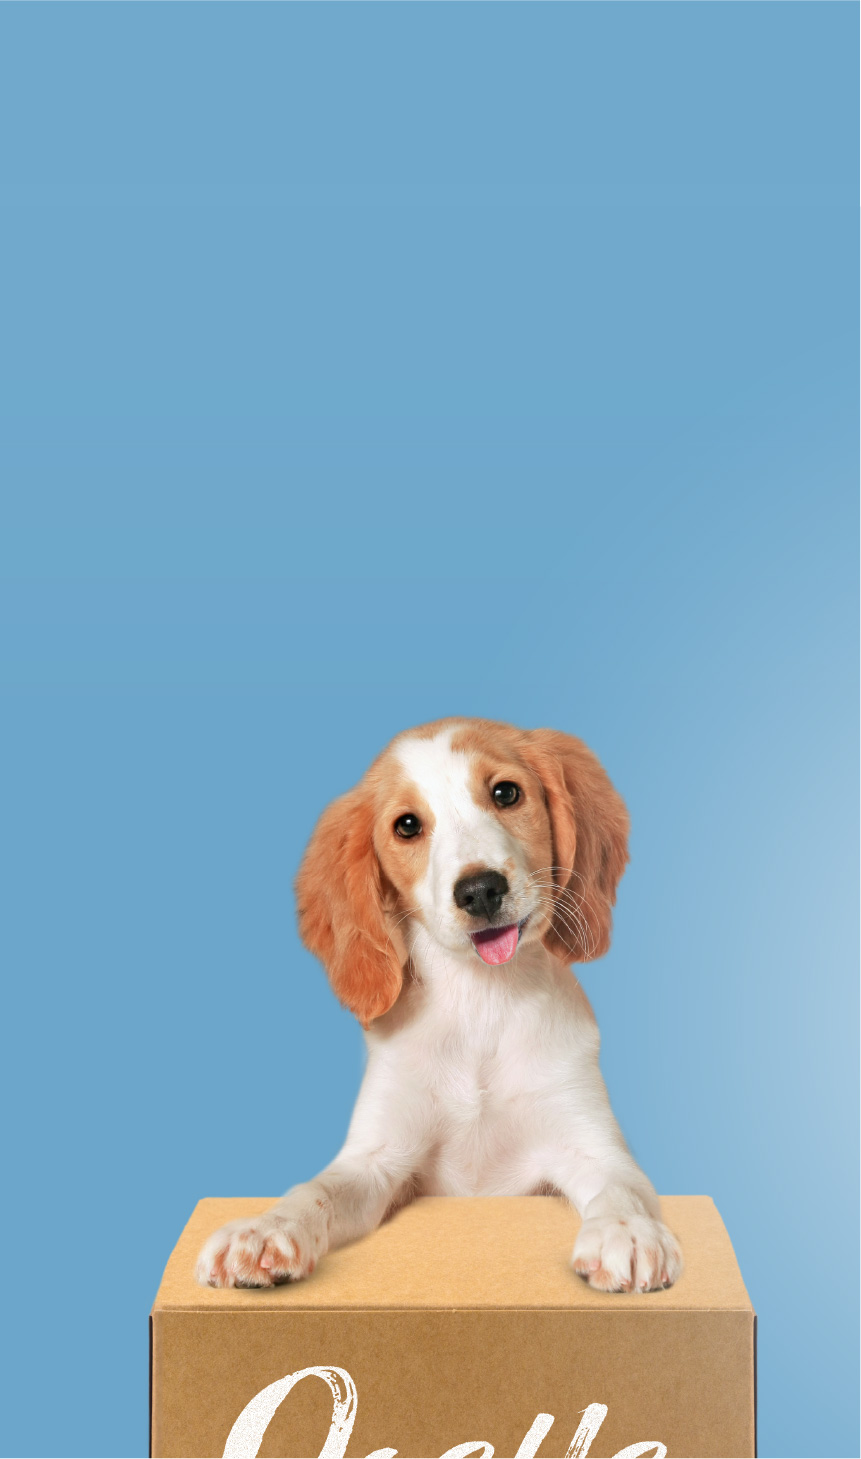
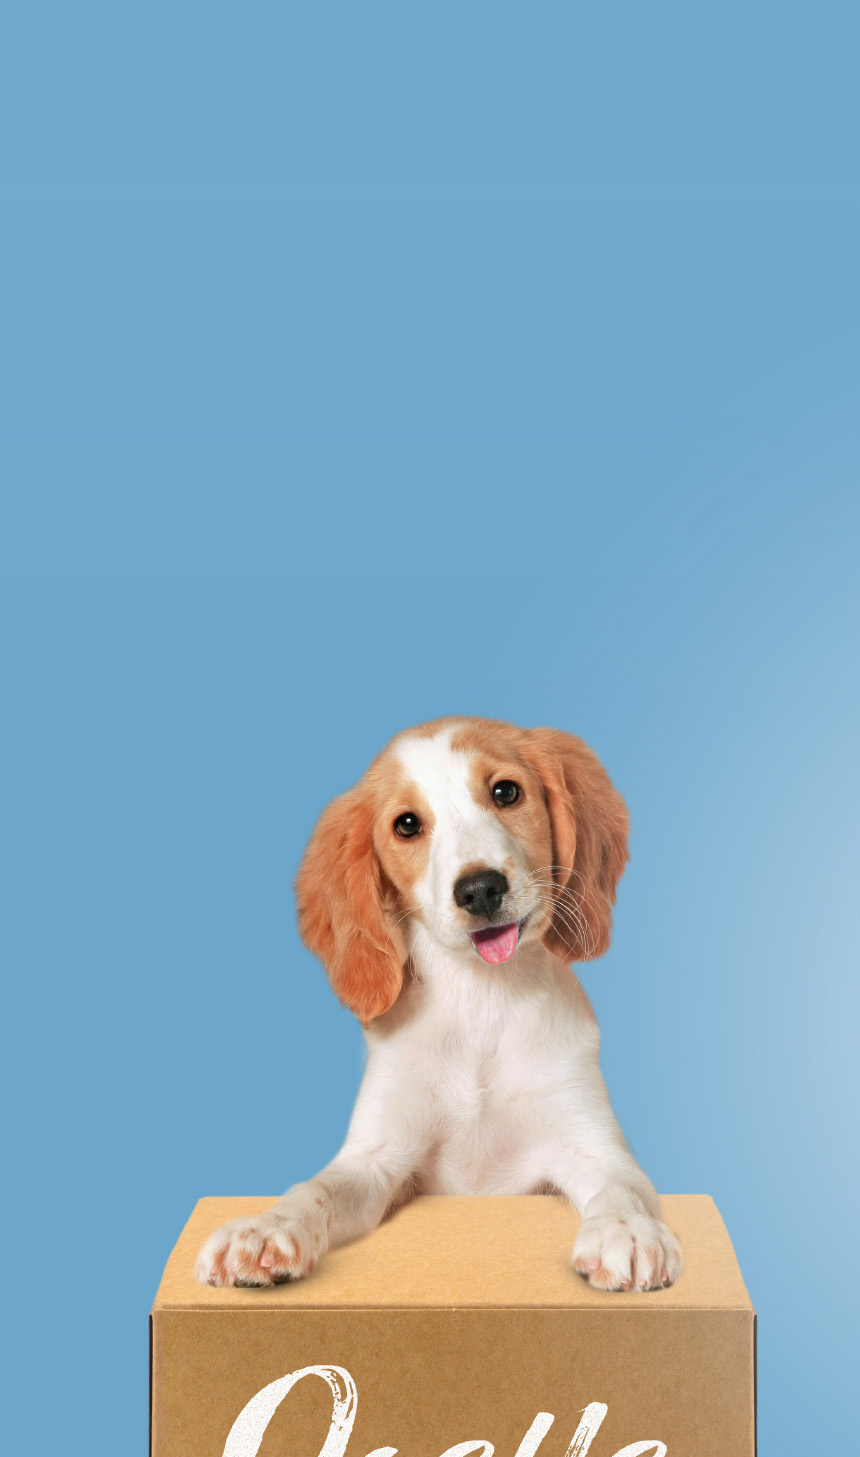
Fix Ocelle_Change Log_How It Works-Individual Packs _v0.23

diff --git a/src/components/forms/GuestCheckout.tsx b/src/components/forms/GuestCheckout.tsx
@@ -9,6 +9,7 @@ import React from 'react';
 import { useForm } from 'react-hook-form';
 
 import CartRows from '../CartRows';
+import UnderlineButton from '../buttons/UnderlineButton';
 import TextField from '../controls/TextField';
 import DatePickerForm from './DatePicker';
 import PartialBillingAddressForm, { IPartialBillingAddressForm } from './partial/BillingAddress';
@@ -84,6 +85,7 @@ interface IGuestCheckoutForm {
   deliveryDate: Date;
   deliveryAddress: IPartialShippingAddressForm;
   billingAddress: IPartialBillingAddressForm;
+  tnc: boolean;
 }
 
 type IGuestCheckoutFormAction = Omit<
@@ -350,7 +352,7 @@ export default function GuestCheckoutForm({
                 <div className="w-1/2 p-2 max-lg:w-full">
                   <TextField
                     name="whatsapp.value"
-                    label="WhatsApp"
+                    label={t('whatsapp-optional')}
                     control={control}
                     rules={{
                       pattern: {
@@ -448,6 +450,7 @@ export default function GuestCheckoutForm({
                 <div ref={datePickerRef} className="mt-4 w-fit">
                   <DatePickerForm
                     initialDate={watch('deliveryDate')}
+                    minDate={minDeliveryDate}
                     // minDate={minDeliveryDate}
                     shouldDisableDate={(day) =>
                       !isOperationDate(subDays(day, 1), calendarEvents) ||
@@ -510,6 +513,21 @@ export default function GuestCheckoutForm({
                 <div className="-mx-1 flex flex-wrap justify-between font-bold">
                   <div className="body-2 px-1">{t('{}-colon', { value: t('total') })}</div>
                   <div className="body-2 px-1">${totalPrice?.amount}</div>
+                </div>
+                <div className="mt-4">
+                  <RoundedCheckbox
+                    name="tnc"
+                    control={control}
+                    rules={{
+                      required: true,
+                    }}
+                    label={t.rich('i-have-read-and-understood-the-terms-conditions', {
+                      button: (chunks) => (
+                        <UnderlineButton type="button" theme="primary" label={chunks} />
+                      ),
+                    })}
+                    disabled={isSubmitInProgress}
+                  />
                 </div>
                 <div className="mt-5 text-center">
                   <Button

diff --git a/src/app/[locale]/(main)/how-it-works/individual-pack/page.tsx b/src/app/[locale]/(main)/how-it-works/individual-pack/page.tsx
@@ -45,14 +45,14 @@ export default async function HowItWorksIndividual() {
   return (
     <>
       <main>
-        <div className="relative flex items-center bg-white bg-[url('./individual-pack-bg.jpg')] bg-[length:auto_100%] bg-[calc(50%_+_40px)_center] bg-no-repeat max-lg:bg-[url('./individual-pack-bg-mb.jpg')] max-lg:bg-[length:100%_auto] max-lg:bg-bottom">
+        <div className="relative flex items-center bg-[#70aaca] bg-[url('./individual-pack-bg.jpg')] bg-[length:auto_100%] bg-[calc(50%_+_40px)_center] bg-no-repeat max-lg:bg-[url('./individual-pack-bg-mb.jpg')] max-lg:bg-[length:100%_auto] max-lg:bg-bottom">
           <div className="w-full pt-[clamp(450px,31.5%,700px)] max-lg:hidden"></div>
           <div className="w-full py-[4vw] text-white max-lg:w-full max-lg:py-10 max-lg:pb-[95%] lg:absolute lg:pr-0">
             <Container className="max-lg:text-center">
               <h1 className="heading-headline heading-weight-1">{ip.rich('block-1-title')}</h1>
               <div className="mt-4"></div>
               <div className="max-w-[45%] max-lg:max-w-none">
-                <p className="body-1">{ip('block-1-content')}</p>
+                <p className="body-1">{ip.rich('block-1-content')}</p>
               </div>
             </Container>
           </div>
@@ -181,7 +181,7 @@ export default async function HowItWorksIndividual() {
           picture="/recipes/individual/duck.jpg"
           dialogPicture="/recipes/dispersion/duck.gif"
           className={{
-            root: 'bg-secondary bg-opacity-[8%]',
+            root: 'bg-[#FCBB00] bg-opacity-[8%]',
             title: 'text-secondary',
           }}
           reverse

diff --git a/src/components/buttons/Button.tsx b/src/components/buttons/Button.tsx
@@ -32,19 +32,25 @@ function ButtonIcon() {
   return <DogFoot className="ml-2 w-6 fill-current" />;
 }
 
-export default function Button({
-  fontSize,
-  theme,
-  children,
-  className,
-  onClick,
-  onTouchEnd,
-  reverse,
-  fullWidth,
-  disabled,
-  disableIcon,
-  ...props
-}: React.PropsWithChildren<ButtonProps | LinkbuttonProps>) {
+export default React.forwardRef<
+  HTMLAnchorElement | HTMLButtonElement,
+  React.PropsWithChildren<ButtonProps | LinkbuttonProps>
+>(function Button(
+  {
+    fontSize,
+    theme,
+    children,
+    className,
+    onClick,
+    onTouchEnd,
+    reverse,
+    fullWidth,
+    disabled,
+    disableIcon,
+    ...props
+  },
+  ref
+) {
   const buttonProps = props as ButtonProps;
   // check if icon is needed.
   let iconNeed = true;
@@ -116,6 +122,7 @@ export default function Button({
   if (linkProps.href) {
     return (
       <Link
+        ref={ref as React.ForwardedRef<HTMLAnchorElement>}
         href={linkProps.href}
         className={classes}
         target={linkProps.target}
@@ -134,6 +141,7 @@ export default function Button({
 
   return (
     <button
+      ref={ref as React.ForwardedRef<HTMLButtonElement>}
       className={classes}
       type={buttonProps.type}
       onClick={onClick as React.MouseEventHandler<HTMLButtonElement>}
@@ -146,4 +154,4 @@ export default function Button({
       {!disableIcon && <ButtonIcon />}
     </button>
   );
-}
+});

diff --git a/src/components/dialogs/RecipeMedium.tsx b/src/components/dialogs/RecipeMedium.tsx
@@ -43,8 +43,8 @@ export default function RecipeMediumDialog({
     <Dialog>
       <DialogTrigger asChild>{children}</DialogTrigger>
       <DialogContent className="p-3">
-        <div className="drop-shadow-style-1 relative flex max-w-[1016px] items-start rounded-3xl border-2 border-primary bg-white px-5 py-4 text-left shadow-black/20 max-md:flex-wrap max-md:pt-9">
-          <div className="w-[400px] min-w-[400px] max-lg:min-w-[320px] max-xs:w-full max-xs:min-w-full">
+        <div className="relative flex max-w-[1016px] items-start rounded-3xl border-2 border-primary bg-white px-5 py-4 text-left shadow-black/20 drop-shadow-style-1 max-md:flex-wrap max-md:pt-9">
+          <div className="mx-auto w-[400px] min-w-[400px] max-lg:min-w-[320px] max-xs:w-full max-xs:min-w-full">
             {picture}
           </div>
           <div className="ml-6 py-1 max-md:mx-3 max-md:mt-4">

diff --git a/src/app/[locale]/(main)/how-it-works/individual-pack/Product.tsx b/src/app/[locale]/(main)/how-it-works/individual-pack/Product.tsx
@@ -5,6 +5,7 @@ import edjsHTML from 'editorjs-html';
 import { useTranslations } from 'next-intl';
 import Image from 'next/image';
 import React from 'react';
+import { toast } from 'react-toastify';
 import xss from 'xss';
 
 import { addToCart, updateCartLine } from './actions';
@@ -77,6 +78,7 @@ export default function Product({
   const handleButtonClick = React.useCallback(async () => {
     const cart = await addToCart(pack, 1);
     setCart(cart);
+    toast('item added to the cart.');
   }, [pack, setCart]);
 
   const getPrice = (product: ProductFragment) => {
@@ -161,6 +163,7 @@ export default function Product({
                     icon: 'w-2.5',
                   }}
                   min={0}
+                  max={99}
                   value={currentLine.quantity}
                   onChange={handleQuantityChange}
                   buttonDelayMs={1000}

diff --git a/src/app/[locale]/(main)/layout.tsx b/src/app/[locale]/(main)/layout.tsx
@@ -3,6 +3,7 @@ import Header from '@/components/Header';
 import Navigator from '@/components/Navigator';
 import Promotion from '@/components/Promotion';
 import Sticky from '@/components/Sticky';
+import Toast from '@/components/Toast';
 
 export default function MainLayout({ children }: { children: React.ReactNode }) {
   return (
@@ -13,6 +14,7 @@ export default function MainLayout({ children }: { children: React.ReactNode }) 
       </Sticky>
       {children}
       <Footer />
+      <Toast />
     </>
   );
 }

diff --git a/src/errors/checkout.ts b/src/errors/checkout.ts
@@ -1,6 +1,8 @@
+import SaleorError from './SaleorError';
+
 export class CheckoutCreateError extends Error {}
 export class CheckoutNotFoundError extends Error {}
-export class CheckoutInitialTransactionError extends Error {}
+export class CheckoutInitialTransactionError extends SaleorError {}
 export class CheckoutAppendLineError extends Error {}
 export class CheckoutUpdateLineError extends Error {}
 export class CheckoutDeleteLineError extends Error {}

diff --git a/src/components/buttons/EditButton.tsx b/src/components/buttons/EditButton.tsx
@@ -13,7 +13,10 @@ interface EditButtonProps {
 
 export default function EditButton({ className, href, onClick }: EditButtonProps) {
   const t = useTranslations();
-  const classes = clsx('inline-flex items-center text-primary [&:hover_span]:underline', className);
+  const classes = clsx(
+    'inline-flex items-center text-primary outline-none [&:hover_span]:underline',
+    className
+  );
 
   if (href) {
     return (

diff --git a/src/services/checkout.ts b/src/services/checkout.ts
@@ -101,8 +101,7 @@ class CheckoutService {
     });
 
     if (!transactionInitialize || transactionInitialize.errors.length > 0) {
-      transactionInitialize && console.error(transactionInitialize);
-      throw new CheckoutInitialTransactionError();
+      throw new CheckoutInitialTransactionError(transactionInitialize?.errors);
     }
 
     return transactionInitialize.data as {

diff --git a/src/app/[locale]/(main)/how-it-works/individual-pack/CartSection.tsx b/src/app/[locale]/(main)/how-it-works/individual-pack/CartSection.tsx
@@ -60,7 +60,7 @@ export default function CartSection() {
       onCheckoutClick={() => router.push('/checkout')}
       disabled={querying}
     >
-      <div className="fixed left-0 top-40 w-full max-lg:top-[340px]">
+      <div className="fixed left-0 top-40 w-full">
         <Container className="text-right">
           <button type="button">
             <Cart

diff --git a/src/errors/SaleorError.ts b/src/errors/SaleorError.ts
@@ -1,0 +1,9 @@
+type ErrorBody<T> = { field?: string | null; code: T; message?: string | null };
+
+export default class SaleorError<T = string> extends Error {
+  errors?: ErrorBody<T>[];
+  constructor(errors?: ErrorBody<T>[]) {
+    super(JSON.stringify(errors));
+    this.errors = errors;
+  }
+}
